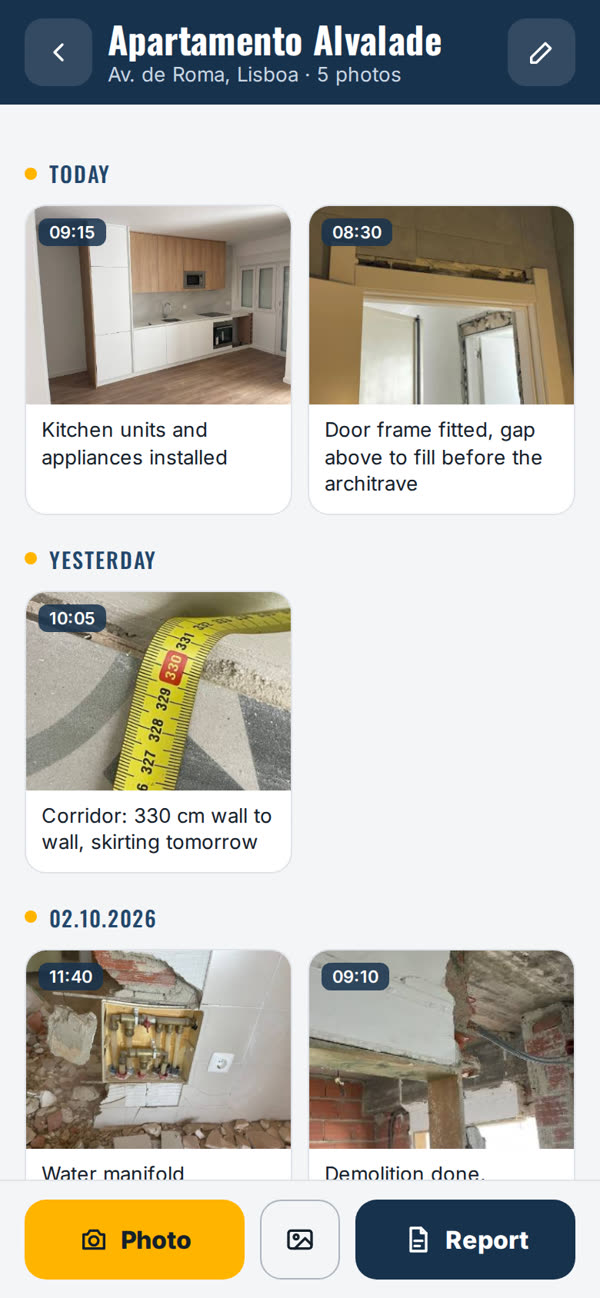
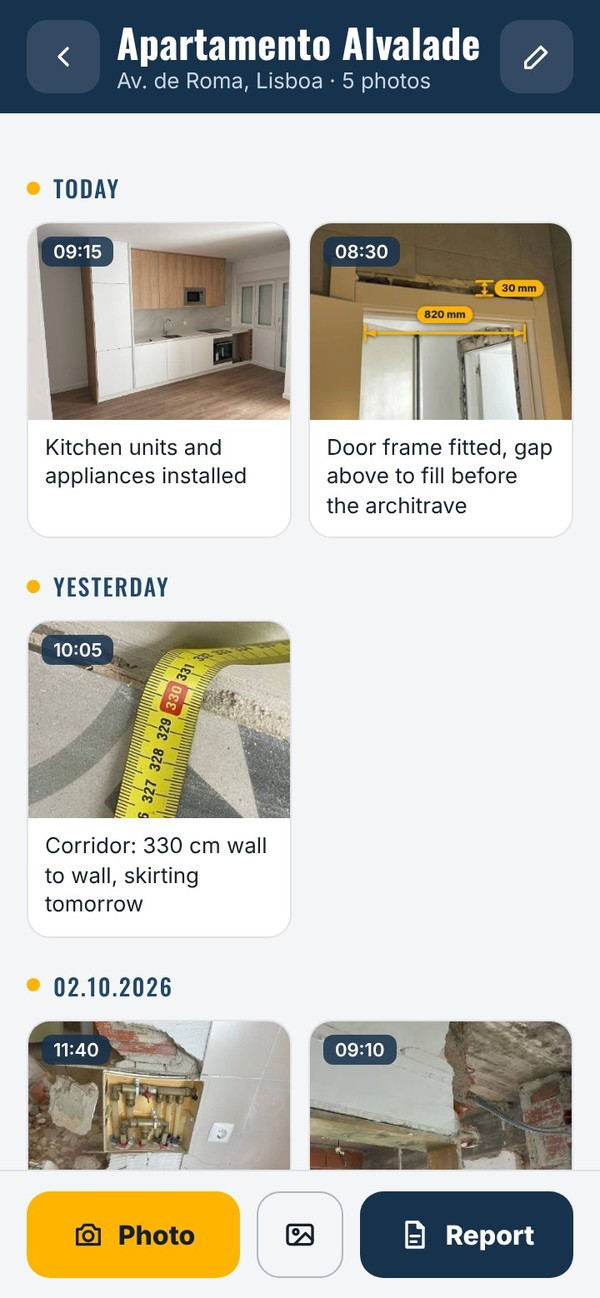
Show dimension marks on the website and in the README

diff --git a/index.html b/index.html
@@ -246,7 +246,7 @@ footer a{text-decoration:underline}
   <div class="pg">
     <div class="pc"><div class="im"><img src="assets/measure.jpg" alt="" loading="lazy"><span class="n">1</span></div><div class="t"><h3 data-t="p1h"></h3><p data-t="p1p"></p></div></div>
     <div class="pc"><div class="im"><img src="assets/hidden.jpg" alt="" loading="lazy"><span class="n">2</span></div><div class="t"><h3 data-t="p2h"></h3><p data-t="p2p"></p></div></div>
-    <div class="pc"><div class="im"><img src="assets/door.jpg" alt="" loading="lazy" style="object-position:50% 30%"><span class="n">3</span></div><div class="t"><h3 data-t="p3h"></h3><p data-t="p3p"></p></div></div>
+    <div class="pc"><div class="im"><img src="assets/door-marks.jpg" alt="" loading="lazy" style="object-position:50% 30%"><span class="n">3</span></div><div class="t"><h3 data-t="p3h"></h3><p data-t="p3p"></p></div></div>
   </div>
 </div></section>
 

diff --git a/sw.js b/sw.js
@@ -1,5 +1,5 @@
 // FotoObra: keeps the app working without internet.
-const CACHE = 'fotoobra-v6';
+const CACHE = 'fotoobra-v7';
 const FILES = ['./', './index.html', './app/', './app/index.html', './manifest.webmanifest', './icon-180.png', './icon-192.png', './icon-512.png', './assets/fonts.css',
   ...['Inter-400', 'Inter-600', 'Inter-800', 'Oswald-500', 'Oswald-700'].flatMap(f => [`./assets/fonts/${f}-latin.woff2`, `./assets/fonts/${f}-cyrillic.woff2`])];
 

diff --git a/README.md b/README.md
@@ -26,9 +26,9 @@ FotoObra keeps photos by job and turns them into a clean PDF in a couple of taps
 - **Four languages.** App, website and reports in English, Portuguese, Russian and Ukrainian. English by default.
 - **Help inside.** A sample report, why photos on site matter, and FAQ.
 
-| Jobs | Photo feed | Report | Help |
-|---|---|---|---|
-| ![Jobs](docs/screen-jobs.jpg) | ![Photo feed](docs/screen-feed.jpg) | ![Report](docs/screen-report.jpg) | ![Help](docs/screen-help.jpg) |
+| Jobs | Photo feed | Marks | Report | Help |
+|---|---|---|---|---|
+| ![Jobs](docs/screen-jobs.jpg) | ![Photo feed](docs/screen-feed.jpg) | ![Dimension arrows on a photo](docs/screen-marks.jpg) | ![Report](docs/screen-report.jpg) | ![Help](docs/screen-help.jpg) |
 
 ### The PDF your client gets
 
